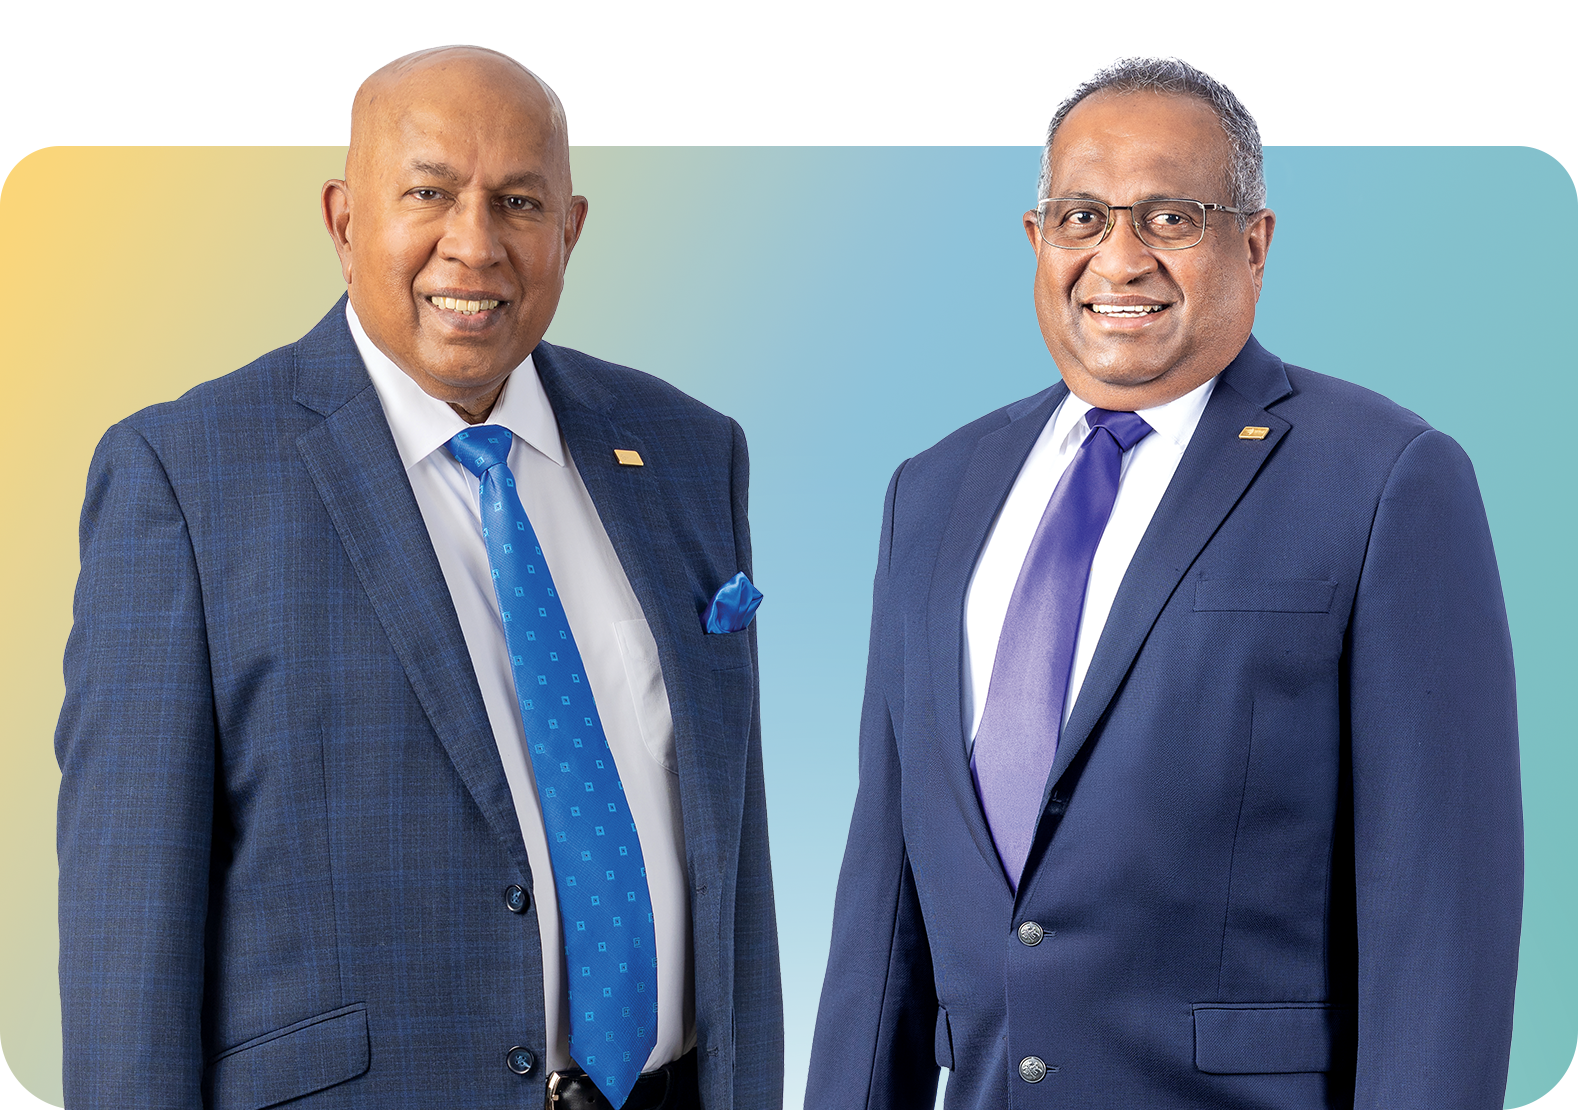
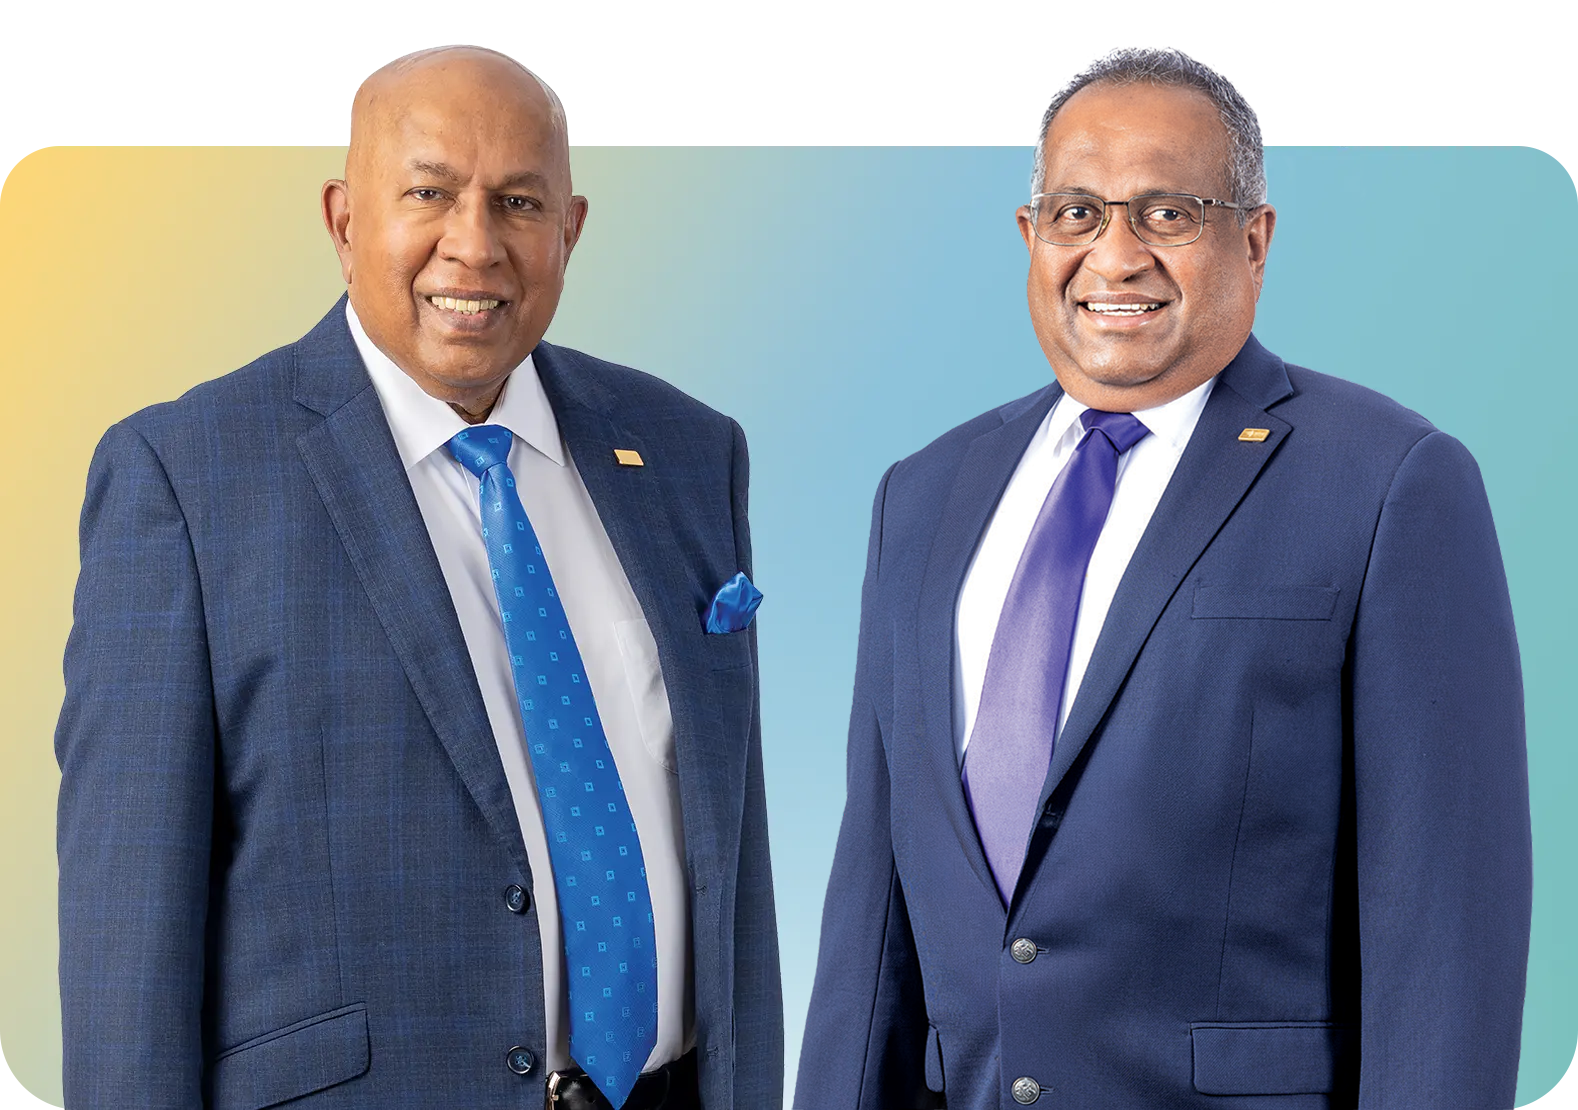
fix: update leaderboard detail modal to white frosted glass with proper scroll layout and close button z-index

diff --git a/src/components/InteractiveLeaderboard.tsx b/src/components/InteractiveLeaderboard.tsx
@@ -279,32 +279,32 @@ export default function InteractiveLeaderboard({
           onClick={handleClose}
         >
           <div
-            className="relative w-full max-w-lg max-h-[90vh] rounded-2xl !bg-white/10 !backdrop-blur-xl !border !border-white/20 !shadow-2xl flex flex-col overflow-hidden"
+            className="relative w-full max-w-lg max-h-[85vh] rounded-2xl bg-white/80 backdrop-blur-xl border border-white/40 shadow-2xl flex flex-col overflow-hidden"
             onClick={(e) => e.stopPropagation()}
           >
 
             {/* PINNED HEADER */}
-            <div className="shrink-0 p-6 pb-4 text-center relative !border-b !border-white/10">
+            <div className="shrink-0 p-6 pb-4 text-center relative !border-b border-slate-200/60">
               <button
                 onClick={handleClose}
-                className="absolute top-4 right-4 cursor-pointer rounded-full p-1 !text-white/60 hover:!bg-white/10 hover:!text-white !transition-colors"
+                className="absolute top-4 right-4 z-10 cursor-pointer rounded-full p-1 text-slate-400 hover:bg-slate-100 hover:text-slate-700 !transition-colors"
                 aria-label="Close"
               >
                 <XMarkIcon className="h-5 w-5" />
               </button>
-              <h2 className="font-heading text-xl font-bold !text-white !drop-shadow-md">
+              <h2 className="font-heading text-xl font-bold text-[var(--color-tm-teal-blue)] !drop-shadow-md">
                 {selectedPlayer.name}
               </h2>
               <p className="mt-1 text-3xl font-bold text-brand-main !drop-shadow-md">
                 {selectedPlayer.score} pts
               </p>
               <div className="mt-4">
-                <h3 className="mb-2 text-xs font-semibold uppercase tracking-wider !text-white/40">
+                <h3 className="mb-2 text-xs font-semibold uppercase tracking-wider text-slate-500">
                   Certifications Earned
                 </h3>
                 <div className="flex flex-wrap gap-2 justify-center">
                   {ALL_CATEGORIES.filter((c) => selectedPlayer.earnedBadges[c]).length === 0 ? (
-                    <p className="text-sm !text-white/50">No certifications earned</p>
+                    <p className="text-sm text-slate-500">No certifications earned</p>
                   ) : (
                     ALL_CATEGORIES.filter((c) => selectedPlayer.earnedBadges[c]).map((cat) => (
                       <span
@@ -321,25 +321,25 @@ export default function InteractiveLeaderboard({
             </div>
 
             {/* SCROLLABLE BODY */}
-            <div className="flex-1 overflow-y-auto p-6">
-              <h3 className="mb-3 text-xs font-semibold uppercase tracking-wider !text-white/40">
+            <div className="flex-1 overflow-y-auto p-6 pt-2 pb-2">
+              <h3 className="mb-2 text-xs font-semibold uppercase tracking-wider text-slate-500">
                 Score Breakdown
               </h3>
               {selectedPlayer.answerHistory.length === 0 ? (
-                <p className="text-sm !text-white/50">No breakdown data available</p>
+                <p className="text-sm text-slate-500">No breakdown data available</p>
               ) : (
-                <div className="space-y-2">
+                <div className="space-y-3 pr-2 my-2 overflow-y-auto flex-1">
                   {selectedPlayer.answerHistory.map((record, idx) => (
                     <div
                       key={record.questionId}
-                      className={`rounded-md !bg-white/5 !border !border-white/10 p-3 text-xs ${
+                      className={`rounded-md bg-slate-50 border border-slate-200/60 p-4 text-xs ${
                         record.status === "failed" || record.status === "timeout"
                           ? "opacity-50"
                           : ""
                       }`}
                     >
                       <div className="mb-1 flex items-center justify-between">
-                        <span className="font-semibold !text-white/60">
+                        <span className="font-semibold text-slate-500">
                           #{idx + 1}
                         </span>
                         <span
@@ -354,10 +354,10 @@ export default function InteractiveLeaderboard({
                           {record.status}
                         </span>
                       </div>
-                      <p className="mb-1 font-medium !text-slate-100 truncate">
+                      <p className="mb-1 font-medium text-slate-800 truncate">
                         {record.clue}
                       </p>
-                      <p className="!text-white/60">
+                      <p className="text-slate-600">
                         <span className="font-mono">{record.basePoints}</span>{" "}
                         (Base)
                         {record.status === "completed" && (
@@ -376,7 +376,7 @@ export default function InteractiveLeaderboard({
                           </>
                         )}
                         {" = "}
-                        <span className="font-mono font-bold !text-white">
+                        <span className="font-mono font-bold text-[var(--color-tm-teal-blue)]">
                           {record.totalPointsEarned}
                         </span>{" "}
                         pts
@@ -388,8 +388,8 @@ export default function InteractiveLeaderboard({
             </div>
 
             {/* PINNED FOOTER */}
-            <div className="shrink-0 p-6 pt-4 !bg-white/5 !border-t !border-white/10">
-              <h3 className="mb-3 text-xs font-semibold uppercase tracking-wider !text-white/40">
+            <div className="shrink-0 p-6 pt-4 border-t border-slate-200/60">
+              <h3 className="mb-3 text-xs font-semibold uppercase tracking-wider text-slate-500">
                 Share your achievement
               </h3>
               <ShareResults
